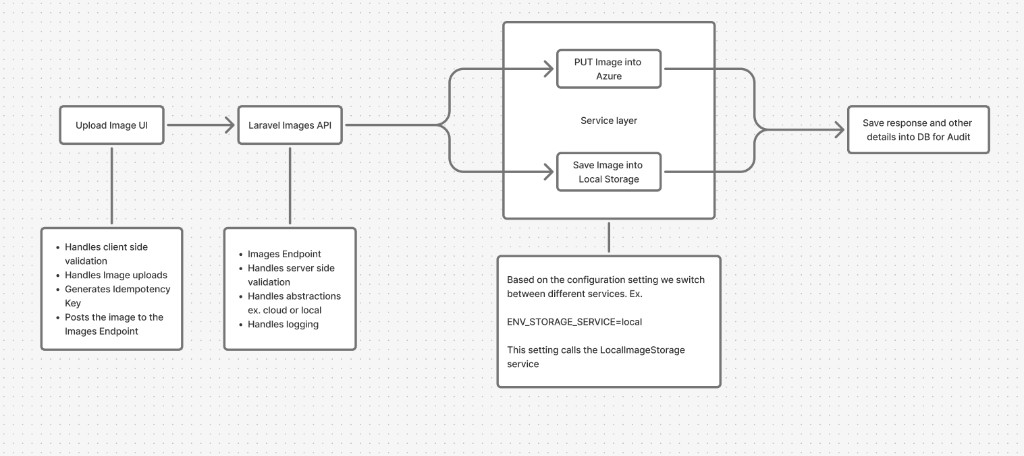
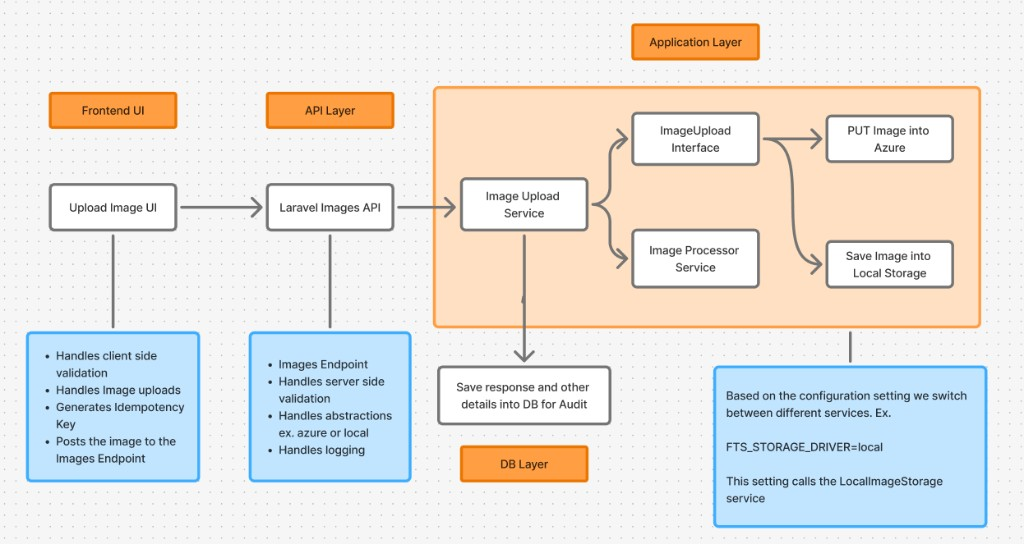
added imageUpload service and tests. Also added the new design diagram

diff --git a/tests/Unit/Services/ImageUploadServiceTest.php b/tests/Unit/Services/ImageUploadServiceTest.php
@@ -1,0 +1,78 @@
+<?php
+
+namespace Tests\Feature\Services;
+
+use App\Contracts\ImageStorageInterface;
+use App\Enums\StorageDriver;
+use App\Models\Image;
+use App\Services\ImageProcessor;
+use App\Services\ImageUploadService;
+use App\Services\Storage\LocalImageStorage;
+use Illuminate\Foundation\Testing\RefreshDatabase;
+use Illuminate\Http\UploadedFile;
+use Illuminate\Support\Facades\Storage;
+use Tests\TestCase;
+
+final class ImageUploadServiceTest extends TestCase
+{
+    use RefreshDatabase;
+
+    private ImageUploadService $service;
+
+    protected function setUp(): void
+    {
+        parent::setUp();
+
+        Storage::fake('public');
+
+        $this->service = new ImageUploadService(
+            imageProcessor: new ImageProcessor(),
+            imageStorage: new LocalImageStorage(),
+        );
+    }
+
+    public function test_it_processes_stores_and_records_uploaded_image(): void
+    {
+        $file = UploadedFile::fake()->image(
+            'holiday.jpg',
+            2000,
+            1000,
+        );
+
+        $image = $this->service->upload($file);
+
+        $this->assertInstanceOf(Image::class, $image);
+
+        $this->assertSame(
+            'holiday.jpg',
+            $image->original_filename
+        );
+
+        $this->assertSame(
+            'image/jpeg',
+            $image->content_type
+        );
+
+        $this->assertSame(
+            StorageDriver::Local,
+            $image->storage_driver
+        );
+
+        $this->assertSame(1024, $image->width);
+        $this->assertSame(512, $image->height);
+
+        Storage::disk('public')->assertExists(
+            $image->storage_key
+        );
+
+        $this->assertDatabaseHas('images', [
+            'id' => $image->id,
+            'original_filename' => 'holiday.jpg',
+            'storage_key' => $image->storage_key,
+            'storage_driver' => StorageDriver::Local->value,
+            'content_type' => 'image/jpeg',
+            'width' => 1024,
+            'height' => 512,
+        ]);
+    }
+}

diff --git a/app/Services/ImageUploadService.php b/app/Services/ImageUploadService.php
@@ -1,0 +1,55 @@
+<?php
+
+namespace App\Services;
+
+use App\Contracts\ImageStorageInterface;
+use App\Data\ImageProcessingOptions;
+use App\Models\Image;
+use Illuminate\Http\UploadedFile;
+use Illuminate\Support\Str;
+
+final class ImageUploadService
+{
+    public function __construct(
+        private ImageProcessor $imageProcessor,
+        private ImageStorageInterface $imageStorage,
+    ) {}
+
+    public function upload(UploadedFile $file): Image
+    {
+        $processedImage = $this->imageProcessor->process(
+            $file,
+            new ImageProcessingOptions(
+                maxWidth: 1024,
+                maxHeight: 1024,
+            )
+        );
+
+        $extension = match ($processedImage->contentType) {
+            'image/jpeg' => 'jpg',
+            'image/png' => 'png',
+        };
+
+        $storageKey = sprintf(
+            'images/%s.%s',
+            Str::uuid(),
+            $extension,
+        );
+
+        $storedImage = $this->imageStorage->store(
+            contents: $processedImage->contents,
+            storageKey: $storageKey,
+            contentType: $processedImage->contentType,
+        );
+
+        return Image::create([
+            'storage_key' => $storedImage->storageKey,
+            'original_filename' => $file->getClientOriginalName(),
+            'storage_driver' => $storedImage->storageDriver,
+            'content_type' => $storedImage->contentType,
+            'file_size' => $storedImage->size,
+            'width' => $processedImage->width,
+            'height' => $processedImage->height,
+        ]);
+    }
+}

diff --git a/README.md b/README.md
@@ -8,4 +8,4 @@ Laravel image storage app with pluggable drivers (local and Azure).
 
 ## Architecture
 
-![Upload flow from the UI through the Laravel Images API, then the service layer to Azure or local storage, and finally a database audit record](docs/architecture.png)
+![Upload flow from the Frontend UI through the Laravel Images API, then Image Upload Service, Image Processor, and ImageUpload Interface to Azure or local storage, with a database audit record](docs/architecture.png)
